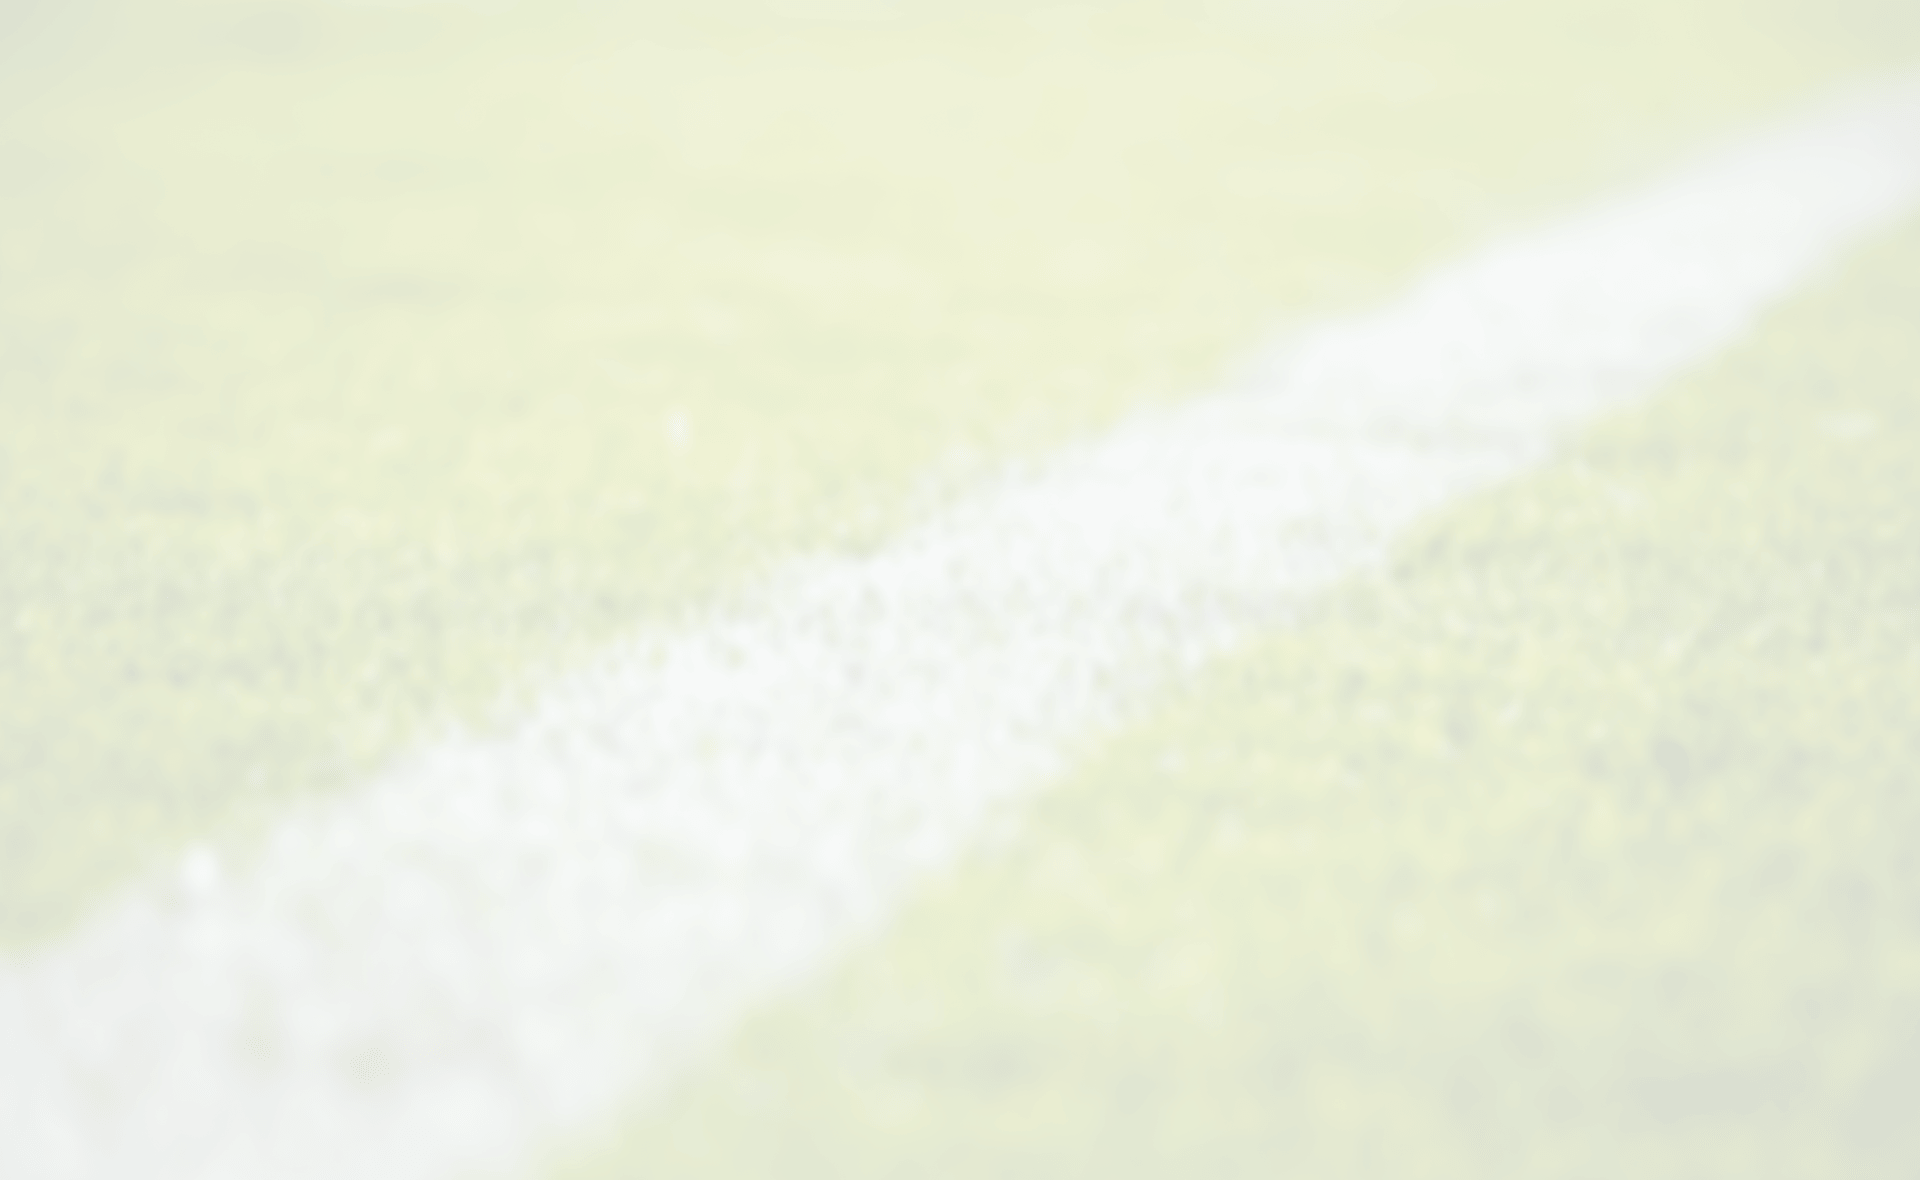
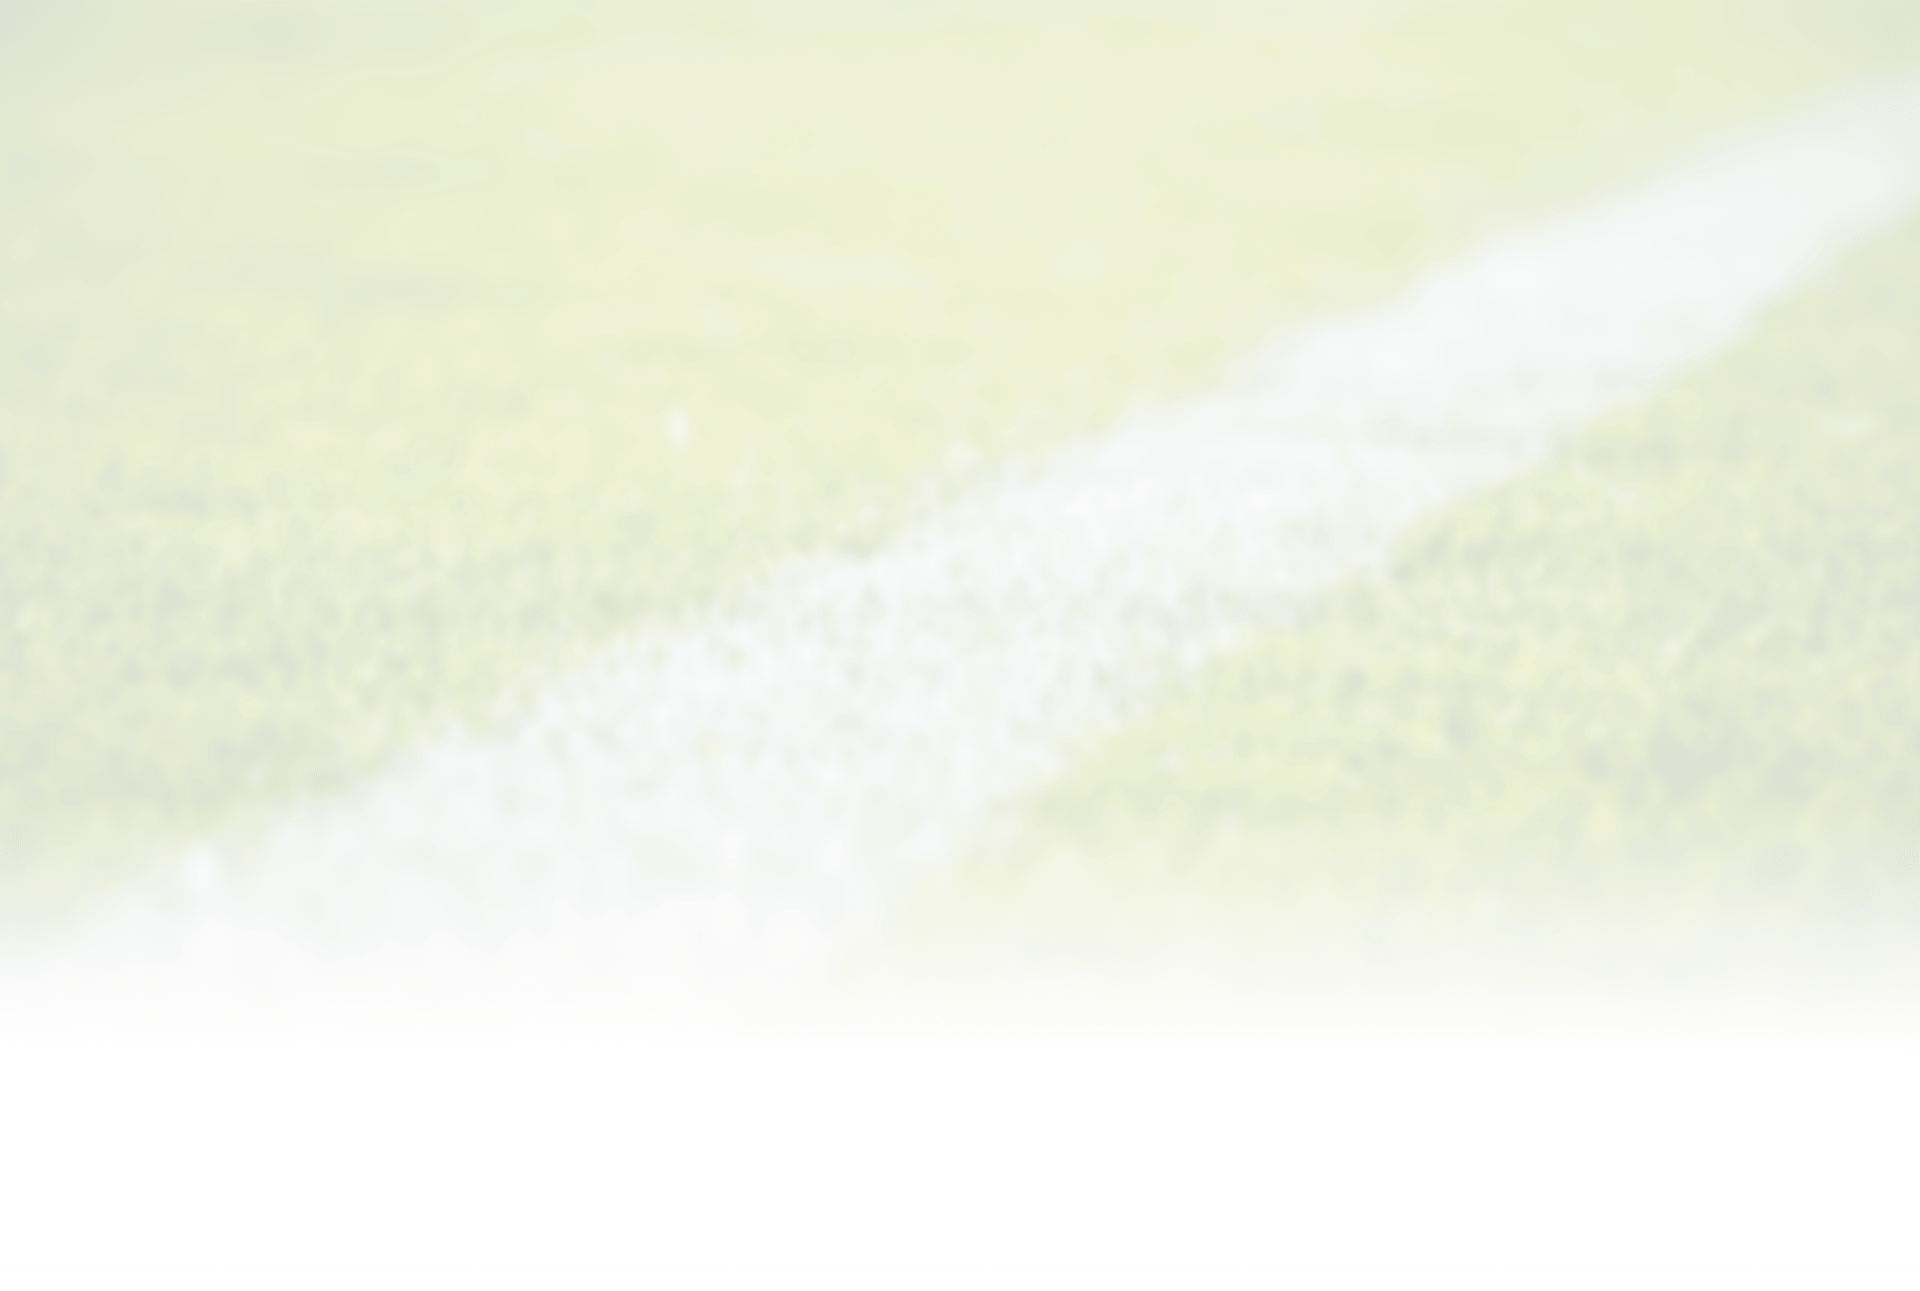
ps winners fb

diff --git a/css/styles.css b/css/styles.css
@@ -5510,7 +5510,7 @@ table td {
 }
 
 .fb-bg {
-    background: url(../img/fb-bg.png) center 0 no-repeat;
+    background: url(../img/fb-bg.png) center 0 no-repeat, linear-gradient(360deg, #EBF7FF 0%, #E2F1FF 100%);
     background-size: 100%;
 }
 
@@ -5663,6 +5663,136 @@ table td {
     text-align: center;
     color: #272727;
     margin: 5px 0;
+}
+
+.ps-winners-nav {
+    font-family: Rex;
+    font-weight: bold;
+    font-size: 16px;
+    line-height: 1;
+    text-align: center;
+    color: #0878CA;
+    margin-top: 35px;
+}
+
+.ps-winners-nav img {
+    margin-top: 6px;
+}
+
+.ps-winners-fb-wrapper {
+    position: relative;
+    max-width: 1270px;
+    width: 100%;
+    margin: auto;
+}
+
+.ps-winners-fb-title {
+    font-family: Rex;
+    font-weight: bold;
+    font-size: 60px;
+    line-height: 1;
+    text-align: center;
+    color: #D01319;
+    margin: 76px auto;
+}
+
+.ps-winners-fb-dates {
+    display: flex;
+    justify-content: space-between;
+    margin-bottom: 70px;
+}
+
+.ps-winners-fb-date {
+    display: flex;
+    -ms-align-items: center;
+    align-items: center;
+    justify-content: center;
+    width: 124px;
+    height: 29px;
+    font-family: Rex;
+    font-weight: bold;
+    font-size: 21px;
+    line-height: 1;
+    text-align: center;
+    color: #0878CA;
+}
+
+.ps-winners-fb-date.active {
+    background: url(../img/ps-winners-date.png) center no-repeat;
+    background-size: contain;
+    color: #fff;
+}
+
+.ps-winners-fb {
+    display: flex;
+    justify-content: space-between;
+}
+
+.ps-winner-fb {
+    max-width: 375px;
+    width: 100%;
+    margin: 0 10px;
+}
+
+.ps-winner-img {
+    width: 100%;
+    margin-bottom: 30px;
+}
+
+.ps-winner-name {
+    font-family: Rex;
+    font-weight: bold;
+    font-size: 21px;
+    line-height: 1;
+    text-align: center;
+    color: #0878CA;
+}
+
+.ps-winners-fb-dates-mob {
+    display: none;
+}
+
+.fb-bg .full-container {
+    position: relative;
+}
+
+.fb-ball {
+    position: absolute;
+    z-index: 0;
+}
+
+.fb-ball1 {
+    bottom: 500px;
+    left: 0;
+}
+
+.fb-ball2 {
+    bottom: 600px;
+    right: 200px;
+}
+
+.fb-ball3 {
+    bottom: 100px;
+    right: 0;
+}
+
+.fb-ball4 {
+    bottom: 330px;
+    left: 0;
+    right: 300px;
+    margin: auto;
+}
+
+.fb-ball5 {
+    bottom: 100px;
+    left: 100px;
+}
+
+.fb-ball6 {
+    bottom: -150px;
+    left: 400px;
+    right: 0;
+    margin: auto;
 }
 
 @media (max-width: 1800px) {
@@ -6511,6 +6641,14 @@ table td {
         max-width: 174px;
         font-size: 18px;
         line-height: 24px;
+    }
+
+    .ps-winners-fb-date {
+        height: 56px;
+    }
+    
+    .ps-winners-fb-date.active {
+        background-size: 100% 56px;
     }
 }
 
@@ -8638,6 +8776,78 @@ table td {
     .ps-winners-desc {
         font-size: 16px;
         line-height: 22px;
+    }
+
+    .ps-winners-nav {
+        display: none;
+    }
+
+    .ps-winners-fb-title {
+        font-size: 35px;
+        margin: 76px auto 30px;
+    }
+
+    .ps-winners-fb-dates {
+        display: none;
+    }
+
+    .ps-winners-fb-dates-mob {
+        display: block;
+        max-width: 310px;
+        width: 100%;
+        margin: 0 auto 24px;
+    }
+
+    .ps-winners-fb {
+        flex-direction: column;
+        -ms-align-items: center;
+        align-items: center;
+    }
+
+    .ps-winner-fb {
+        max-width: 275px;
+        margin: 24px auto;
+    }
+
+    .ps-winner-img {
+        margin-bottom: 24px;
+    }
+
+    .ps-winner-name {
+        font-size: 18px;
+    }
+
+    .fb-ball1 {
+        bottom: 1200px;
+        left: auto;
+        right: 0;
+        transform: rotate(180deg);
+        width: 100px;
+    }
+
+    .fb-ball2 {
+        bottom: 800px;
+        right: auto;
+        left: -50px;
+    }
+
+    .fb-ball3 {
+        bottom: 550px;
+        right: 0;
+        width: 150px;
+    }
+
+    .fb-ball4 {
+        bottom: 300px;
+        left: -50px;
+        right: auto;
+        margin: auto;
+        width: 140px;
+    }
+
+    .fb-ball5,
+    .fb-ball6 {
+        display: none;
     }
 }
 

diff --git a/football.html b/football.html
@@ -63,6 +63,12 @@
 					</div>
 				</header>
 				<section class="inner-content football-content">
+					<img src="img/fb/ball1.png" class="fb-ball fb-ball1" alt="">
+					<img src="img/fb/ball2.png" class="fb-ball fb-ball2" alt="">
+					<img src="img/fb/ball3.png" class="fb-ball fb-ball3" alt="">
+					<img src="img/fb/ball4.png" class="fb-ball fb-ball4" alt="">
+					<img src="img/fb/ball5.png" class="fb-ball fb-ball5" alt="">
+					<img src="img/fb/ball6.png" class="fb-ball fb-ball6" alt="">
 					<div class="football-container">
 						<div class="football-info">
 							<div class="football-info-left">
@@ -85,6 +91,51 @@
 						</div>
 						<div class="tm-link-wrapper">
 							<a href="#!" class="link tm-link">Смотреть полные правила акции</a>
+						</div>
+						<div class="ps-winners-nav">
+							<div>победители</div>
+							<img src="img/ps-arrow-down.svg" alt="">
+						</div>
+						<div class="ps-winners-fb-wrapper">
+							<div class="ps-winners-fb-title">Победители</div>
+							<div class="ps-winners-fb-dates">
+								<a href="#!" class="ps-winners-fb-date active">24.02-24.02</a>
+								<a href="#!" class="ps-winners-fb-date">24.02-24.02</a>
+								<a href="#!" class="ps-winners-fb-date">24.02-24.02</a>
+								<a href="#!" class="ps-winners-fb-date">24.02-24.02</a>
+								<a href="#!" class="ps-winners-fb-date">24.02-24.02</a>
+								<a href="#!" class="ps-winners-fb-date">24.02-24.02</a>
+								<a href="#!" class="ps-winners-fb-date">24.02-24.02</a>
+								<a href="#!" class="ps-winners-fb-date">24.02-24.02</a>
+							</div>
+							<div class="ps-winners-fb-dates-mob select">
+								<select class="ps-winners-fb-dates-select" data-placeholder="Выберите дату">
+									<option value=""></option>
+									<option value="1">24.02-24.02</option>
+									<option value="2">24.02-24.02</option>
+									<option value="3">24.02-24.02</option>
+								</select>
+							</div>
+							<div class="ps-winners-fb">
+								<div class="ps-winner-fb">
+									<div class="ps-winner-img">
+										<img src="img/win1.png" alt="">
+									</div>
+									<div class="ps-winner-name">@milayakoshechka223</div>
+								</div>
+								<div class="ps-winner-fb">
+									<div class="ps-winner-img">
+										<img src="img/win2.png" alt="">
+									</div>
+									<div class="ps-winner-name">vk.com/id3345668783123</div>
+								</div>
+								<div class="ps-winner-fb">
+									<div class="ps-winner-img">
+										<img src="img/win3.png" alt="">
+									</div>
+									<div class="ps-winner-name">@joker45563</div>
+								</div>
+							</div>
 						</div>
 					</div>
 				</section>
